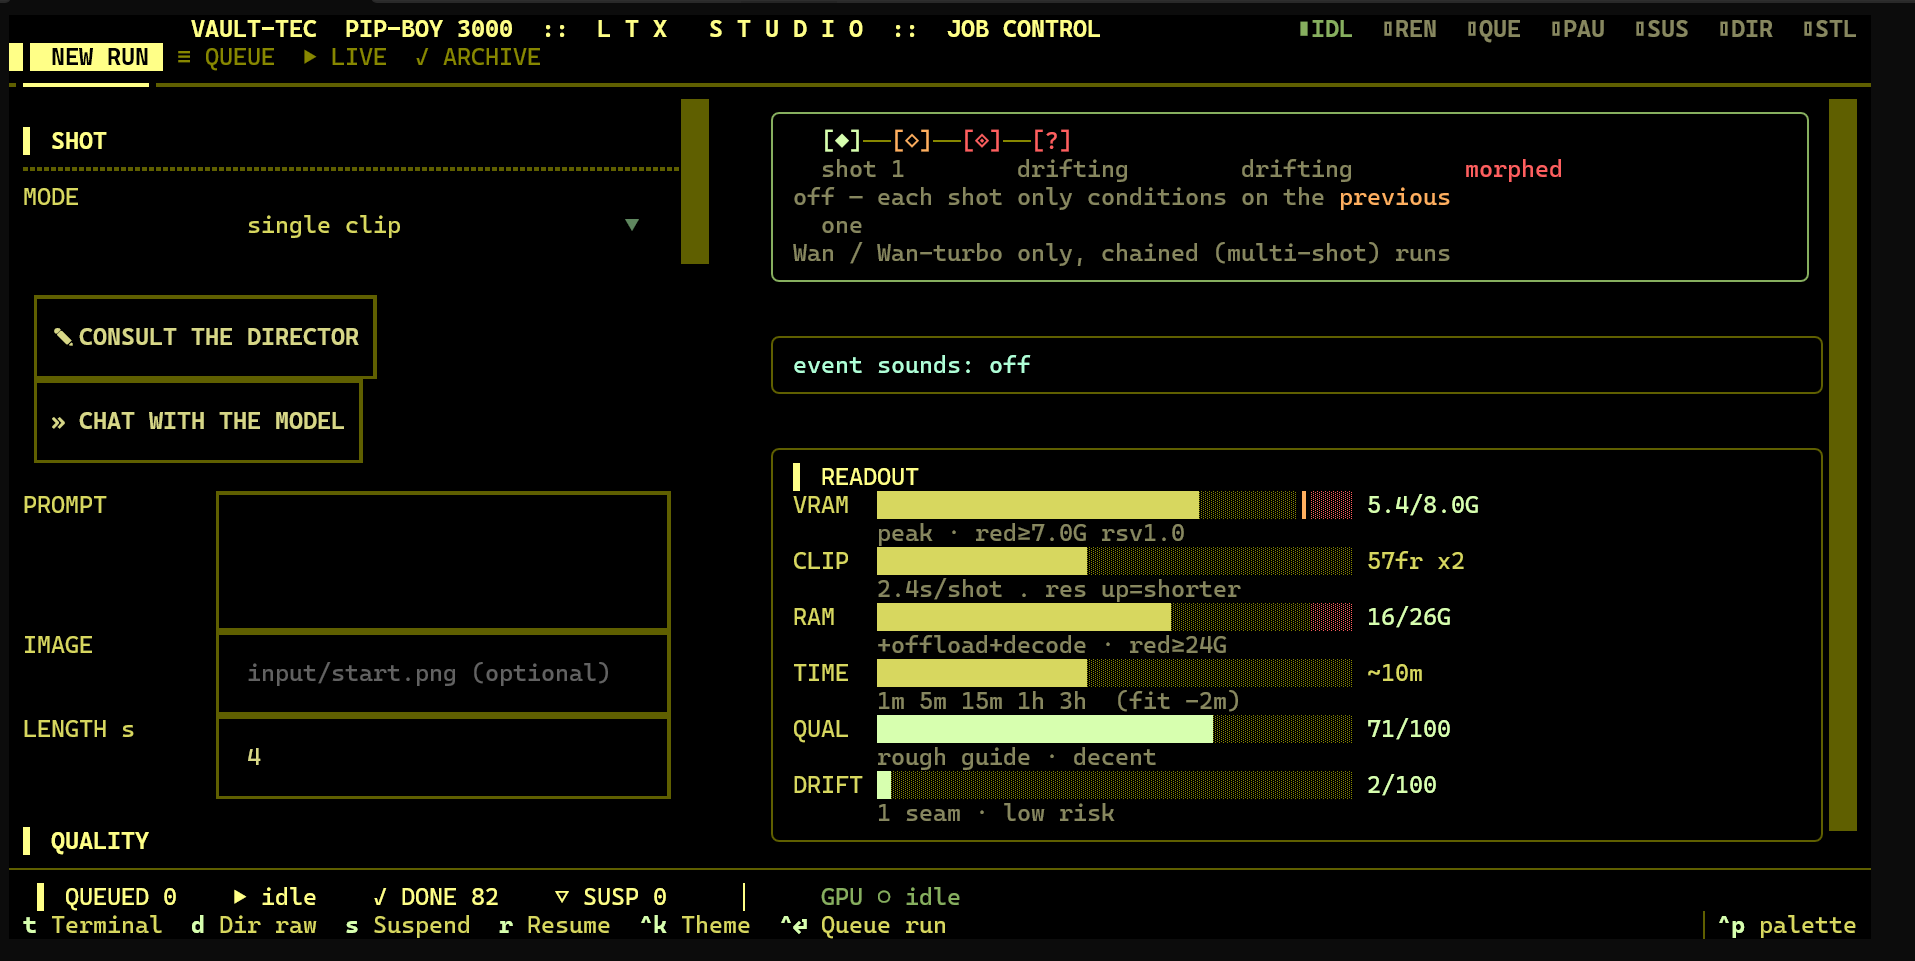
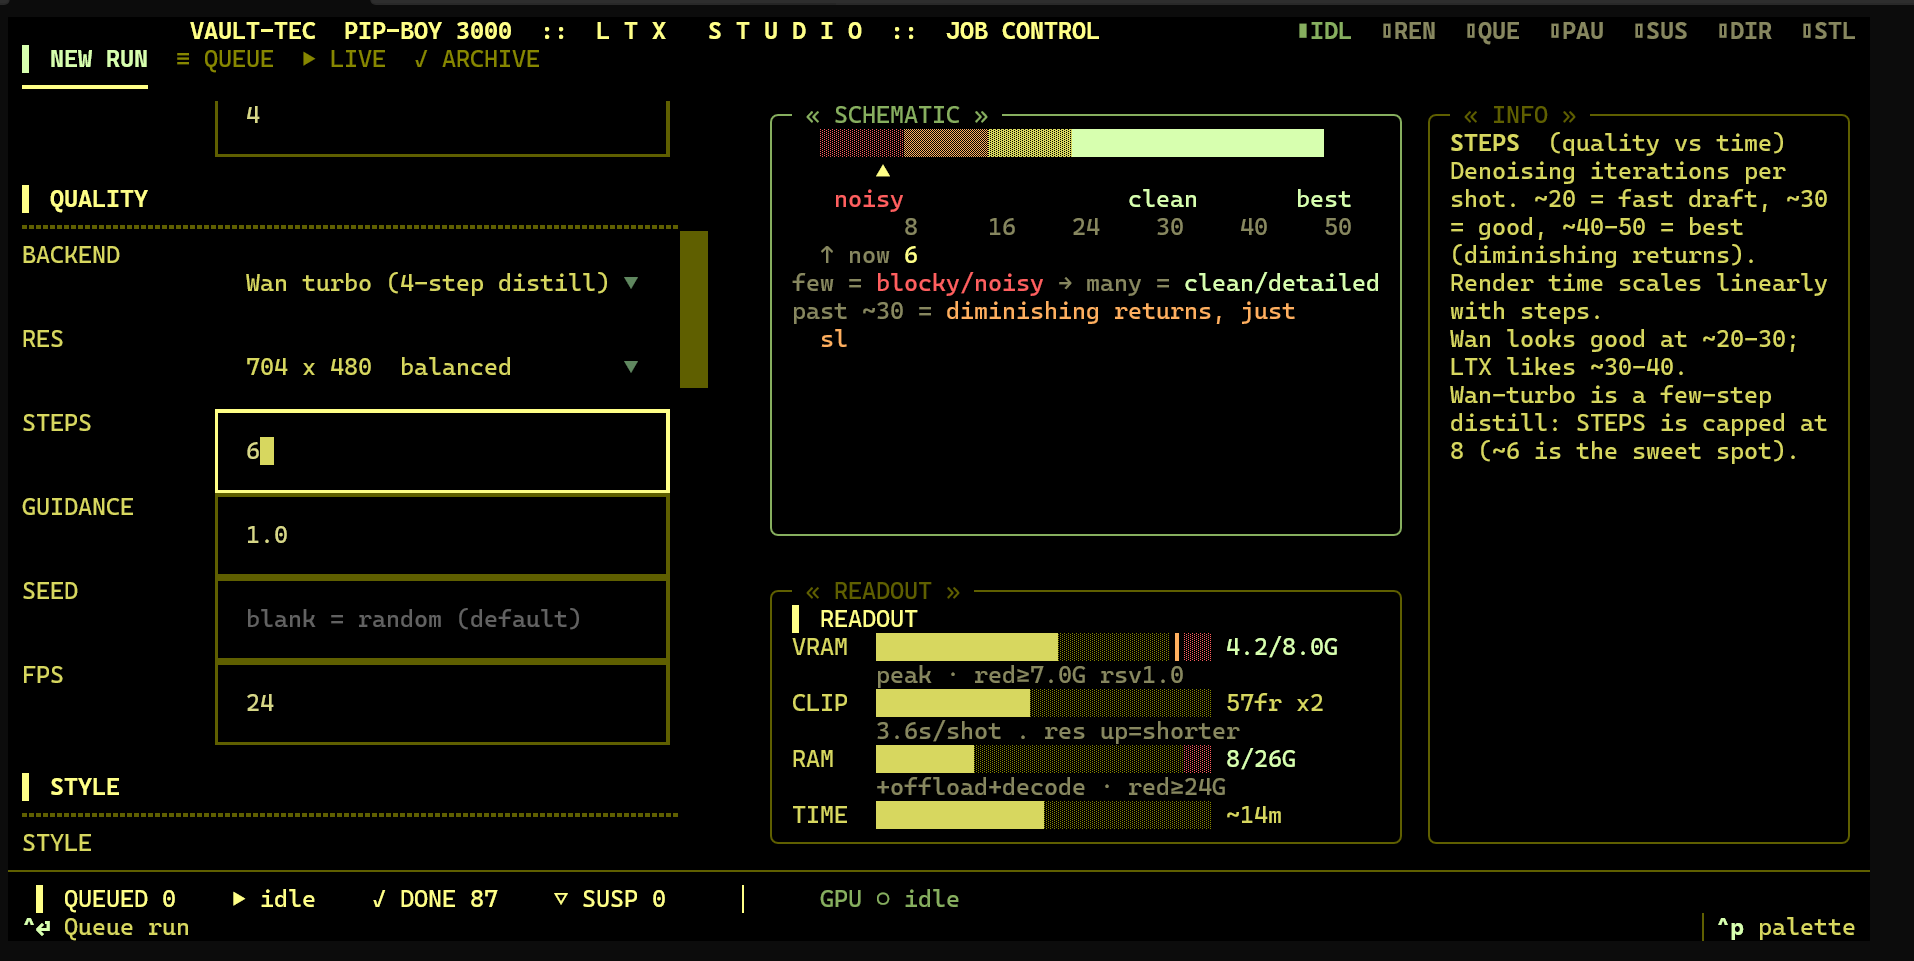
Update NEW RUN screenshot: schematic + info panel layout

diff --git a/README.md b/README.md
@@ -12,7 +12,7 @@ It was built under a hard constraint — an RTX 5070 Laptop (Blackwell, `sm_120`
 
 ## What it looks like
 
-**Job control** — the NEW RUN screen, with the self-calibrating READOUT meters (VRAM headroom, clip budget, time estimate, predicted quality, drift risk):
+**Job control** — the NEW RUN screen: dials on the left; a STEPS schematic placing the current value on the quality-vs-time curve; a contextual INFO panel for whichever field has focus; and the self-calibrating READOUT meters (VRAM headroom, clip budget, system RAM, time estimate):
 
 ![NEW RUN screen with READOUT meters](media/tui-job-control.png)
 